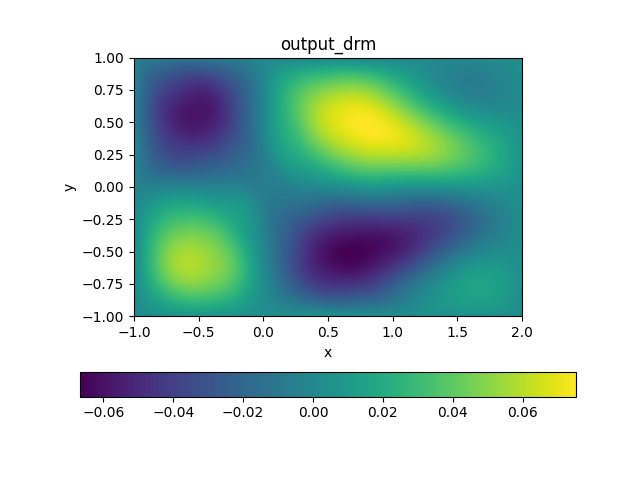
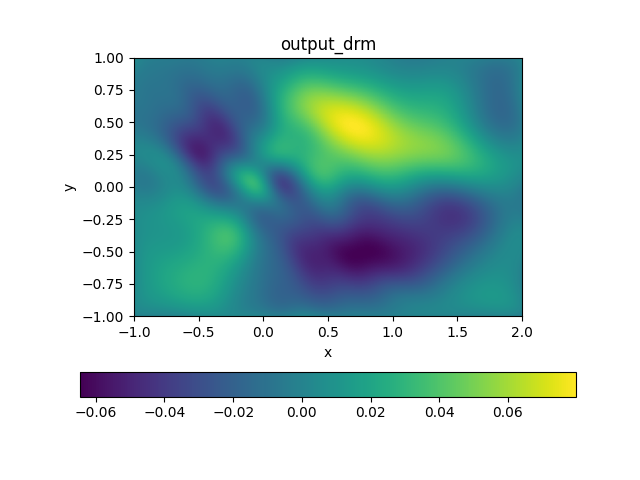
Made DRM_2d_poisson as a class, I made a new file which takes hyperparameters when initializing it, so that the class can be passed to the grid_search static method in the grid_search, check out the example usage in the grid_search.py.

diff --git a/project8/neural_network/implementations/DRM_2d_poisson_class.py b/project8/neural_network/implementations/DRM_2d_poisson_class.py
@@ -1,0 +1,127 @@
+from project8.neural_network import utils, modules, models
+import torch
+import logging
+
+
+class DRM2DPoisson:
+    def __init__(self, n_inputs=2, n_outputs=1, width=20, n_blocks=4, act_fn=None,
+                 weight_init_fn=torch.nn.init.xavier_uniform_, bias_init_fn=torch.nn.init.zeros_,
+                 weight_init_kwargs=None, lr=1e-3, n_epochs=5000, loss_weights=(1, 100), device=None):
+        """
+        Initialize the Poisson model and training parameters.
+
+        :param n_inputs: Number of input dimensions.
+        :param n_outputs: Number of output dimensions.
+        :param width: Width of the network layers.
+        :param n_blocks: Number of blocks in the model.
+        :param act_fn: Activation function to use in the model.
+        :param weight_init_fn: Weight initialization function.
+        :param bias_init_fn: Bias initialization function.
+        :param weight_init_kwargs: Additional arguments for weight initialization.
+        :param lr: Learning rate for the optimizer.
+        :param n_epochs: Number of training epochs.
+        :param loss_weights: Weights for domain and boundary losses.
+        :param device: Device to use (CPU/GPU).
+        """
+        self.device = device or utils.get_device()
+        self.model = models.diff_NN.drm(n_inputs, n_outputs, width, n_blocks, act_fn=act_fn or modules.Sin(torch.pi))
+        self.model.to(self.device)
+        self.model.double()
+        self.model.initialize_weights(
+            weight_init_fn, bias_init_fn, weight_init_kwargs=weight_init_kwargs or {'gain': 0.5}
+        )
+        self.n_epochs = n_epochs
+        self.lr = lr
+        self.loss_weights = loss_weights
+        self.optimizer = torch.optim.Adam(self.model.parameters(), lr=self.lr)
+        self.coord_space = utils.ParameterSpace([[-1, 2], [-1, 1]], self.device)
+
+    def source(self, input: torch.Tensor) -> torch.Tensor:
+        """
+        Source term function for the Poisson problem.
+        """
+        return torch.sin(4 * input[:, 0] * input[:, 1]).unsqueeze(1)
+
+    def domain_loss(self) -> torch.Tensor:
+        """
+        Compute the domain loss term.
+        """
+        grad = self.model.gradient()
+        f = self.source(self.model.input)
+        return torch.mean(
+            0.5 * torch.sum(grad.pow(2), 1).unsqueeze(1) - f * self.model.output
+        )
+
+    def boundary_loss(self) -> torch.Tensor:
+        """
+        Compute the boundary loss term.
+        """
+        return self.model.output.pow(2).mean()
+
+    def train(self) -> float:
+        """
+        Train the model and return the final loss value.
+        """
+        logging.info(self.model)
+        timer = utils.Timer()
+        timer.start()
+
+        # Plot source function
+        f_loc = self.coord_space.fgrid(300)
+        f = self.source(f_loc)
+        x, y = self.coord_space.regrid(f_loc)
+        f = self.coord_space.regrid(f)[0]
+        utils.plot_2d(x, y, f, title='source function', fig_id=1)
+
+        # Training loop
+        for epoch in range(self.n_epochs):
+            # Domain loss
+            self.model(self.coord_space.rand(1000).requires_grad_(True))
+            domain_loss = self.domain_loss()
+
+            # Boundary loss
+            self.model(self.coord_space.bndry_rand(500).requires_grad_(True))
+            boundary_loss = self.boundary_loss()
+
+            # Combined loss
+            loss = self.loss_weights[0] * domain_loss + self.loss_weights[1] * boundary_loss
+
+            # Backpropagation
+            self.optimizer.zero_grad()
+            loss.backward()
+            self.optimizer.step()
+
+            # Logging
+            if epoch % 100 == 0:
+                logging.info(
+                    f"Epoch {epoch}, "
+                    f"domain loss: {domain_loss.item()}, "
+                    f"boundary loss: {boundary_loss.item()}, "
+                    f"total: {loss.item()}"
+                )
+
+        timer.rr()
+        return loss.item()
+
+    def evaluate(self) -> None:
+        """
+        Plot the model output after training.
+        """
+        grid = self.coord_space.fgrid(200)
+        output = self.model(grid)
+        x, y = self.coord_space.regrid(grid)
+        f = self.coord_space.regrid(output)[0]
+        utils.plot_2d(x, y, f, title='output_drm')
+
+
+if __name__ == "__main__":
+    # Initialize the model with hyperparameters
+    model = DRM2DPoisson(n_epochs=5000, lr=1e-3, width=20, n_blocks=4)
+    
+    # Train the model
+    final_loss = model.train()
+    
+    # Evaluate the model
+    model.evaluate()
+    
+    print(f"Final Loss: {final_loss}")

diff --git a/project8/neural_network/implementations/grid_search.py b/project8/neural_network/implementations/grid_search.py
@@ -1,0 +1,52 @@
+import itertools
+from project8.neural_network.implementations.DRM_2d_poisson_class import DRM2DPoisson
+
+class GridSearch:
+    @staticmethod
+    def grid_search(hyperparams, model_factories):
+        best_model = None
+        best_loss = float('inf')
+        best_params = None
+        keys, values = zip(*hyperparams.items())
+        combinations = [dict(zip(keys, v)) for v in itertools.product(*values)]
+        
+        for model_factory in model_factories:
+            for params in combinations:
+                print(f"Testing hyperparameters: {params}")  # Progress feedback
+                try:
+                    model = model_factory(**params)
+                    loss = model.train()
+                except Exception as e:
+                    print(f"Error with params {params}: {e}")
+                    continue
+                
+                if loss < best_loss:
+                    best_loss = loss
+                    best_model = model
+                    best_params = params
+                    
+        return best_model, best_params, best_loss
+
+# Example usage  
+def main():
+    hyperparameters = {
+        'n_inputs': [2],
+        'n_outputs': [1],
+        'width': [20],
+        'n_blocks': [4],
+        'lr': [1e-4],
+        'n_epochs': [1000],
+        'loss_weights': [(1, 100), (1, 50)],
+    }
+    
+    # Only the specified hyperparameters will be varied
+    best_model, best_params, best_loss = GridSearch.grid_search(hyperparameters, [DRM2DPoisson])
+
+    print("\nBest Model:", best_model)
+    print("Best Hyperparameters:", best_params)
+    print("Best Loss:", best_loss)
+
+    best_model.evaluate()
+
+if __name__ == "__main__":
+    main()
